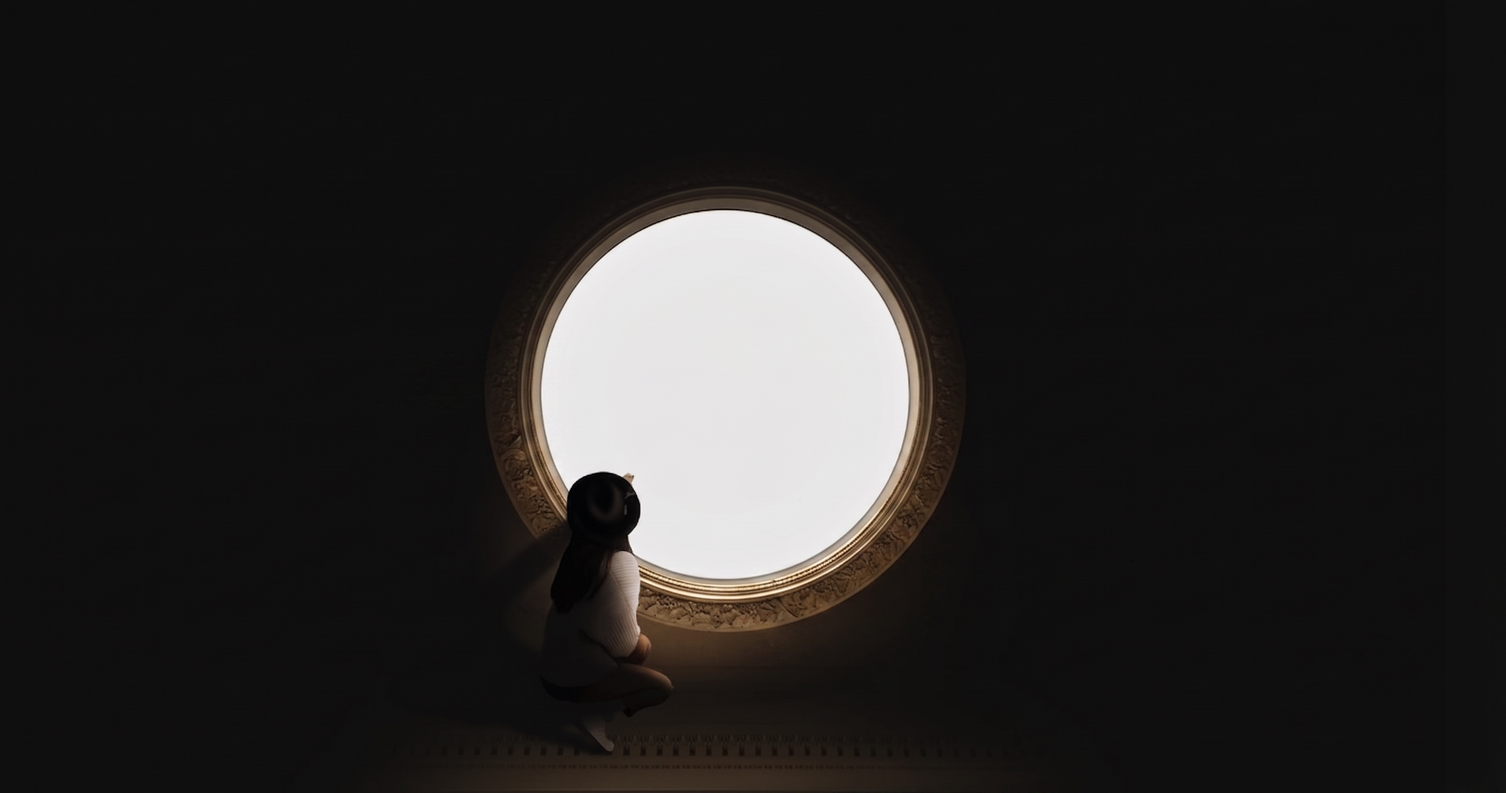
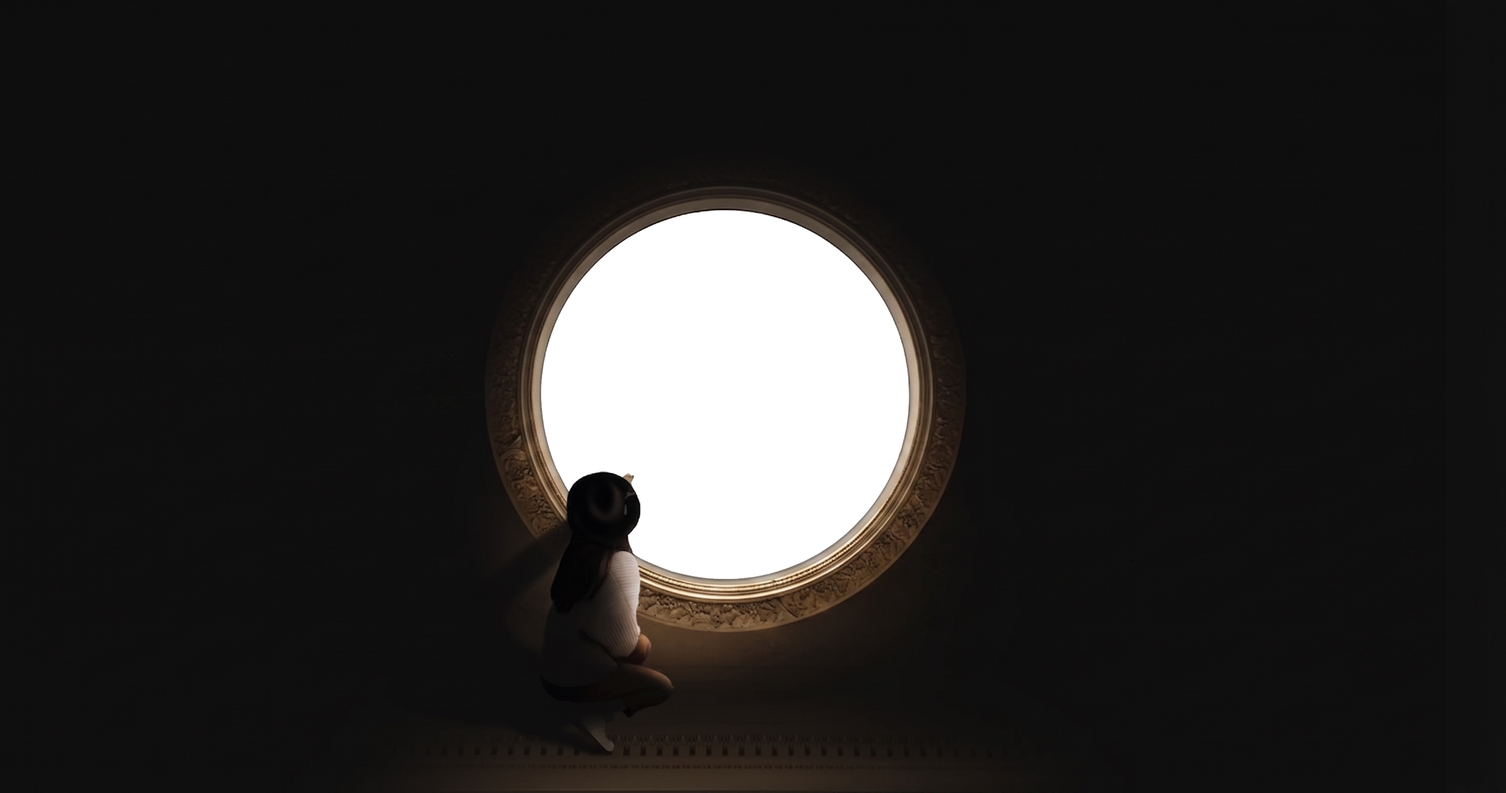
Update HeroSection with improved video playback handling and enhance zoom image transparency. Replace resumeBgVideo function with keepPlaying for better video control. Modify comments for clarity on asset roles and interactions.

Changed region(s): [[0.3438, 0.3067, 0.5938, 0.736]]

diff --git a/src/components/HeroSection.vue b/src/components/HeroSection.vue
@@ -15,9 +15,14 @@ useInteractiveLineField(lineCanvasRef, sectionRef)
 
 // Same two elements/two tweens as codepen.io/GreenSock/pen/YzbPYMx: the
 // `.image-container img` role (scale 2 + z 350, the dramatic zoom) is
-// `zoomImage` (public/images/BGHTML.png, the same asset type as the
-// reference's photo), and the `.section.hero` background role (scale 1.1)
-// is `bgVideo` (the veltechlogo animation) — see useScrollZoom.js.
+// `zoomImage` (BGHTML.png — its window is now cut out transparent in the
+// source file), and the `.section.hero` background role (scale 1.1) is
+// `bgVideo`, sitting behind it at the same position/size so the animation
+// shows straight through the window. The two roles scale at different
+// rates/timing on purpose — that mismatch is what reads as perspective:
+// the foreground frame zooms in hard while the video behind it drifts at
+// its own slower pace, the same depth cue the reference gets from photo
+// vs. mountain background. See useScrollZoom.js.
 useScrollZoom(zoomImageRef, bgVideoRef, sectionRef)
 
 // Rotating headline word, swapped on a timer with a glitch transition (see
@@ -27,6 +32,7 @@ useScrollZoom(zoomImageRef, bgVideoRef, sectionRef)
 const words = ['purpose', 'depth', 'something', 'impact', 'intention']
 const wordIndex = ref(0)
 let wordInterval = null
+let stopBgVideo = null
 
 // Chrome pauses silent, video-only background media as a power-saving
 // measure ("video-only background media was paused to save power") — it
@@ -34,10 +40,15 @@ let wordInterval = null
 // is genuinely in view. Resuming on 'pause' (only while the page is
 // actually visible, so it doesn't fight a deliberate background-tab pause)
 // makes the loop self-heal instead of freezing on one frame.
-function resumeBgVideo() {
-  if (document.visibilityState === 'visible') {
-    bgVideoRef.value?.play().catch(() => {})
+function keepPlaying(videoRef) {
+  const video = videoRef.value
+  if (!video) return
+  const resume = () => {
+    if (document.visibilityState === 'visible') video.play().catch(() => {})
   }
+  resume()
+  video.addEventListener('pause', resume)
+  return () => video.removeEventListener('pause', resume)
 }
 
 // The hero is always visible on load, so its entrance plays as a plain
@@ -63,13 +74,12 @@ onMounted(() => {
   // play() call, leaving it stuck paused at frame 0 indefinitely. Calling
   // it directly is the robust way to kick off autoplay; `muted` is what
   // makes browsers allow it without a user gesture.
-  bgVideoRef.value?.play().catch(() => {})
-  bgVideoRef.value?.addEventListener('pause', resumeBgVideo)
+  stopBgVideo = keepPlaying(bgVideoRef)
 })
 
 onBeforeUnmount(() => {
   clearInterval(wordInterval)
-  bgVideoRef.value?.removeEventListener('pause', resumeBgVideo)
+  stopBgVideo?.()
 })
 </script>
 
@@ -80,13 +90,12 @@ onBeforeUnmount(() => {
     class="relative flex min-h-screen items-start overflow-hidden bg-brand-950 pt-36 sm:pt-40"
   >
     <!-- `.content .section.hero` from the reference — background layer,
-         normal flow, gets the timeline's scale:1.1 tween. `mix-blend-mode:
-         screen` drops the video's black background out entirely so only
-         the bright mark shows against the section's own bg-brand-950. -->
+         normal flow, gets the timeline's scale:1.1 tween. Same box/sizing as
+         the photo layer below so it lines up behind the window. -->
     <div class="absolute inset-0 z-[1] overflow-hidden">
       <video
         ref="bgVideo"
-        class="pointer-events-none h-full w-full object-cover object-center mix-blend-screen"
+        class="pointer-events-none h-full w-full object-cover object-center"
         :src="'/videos/veltechlogo.mp4'"
         autoplay
         muted
@@ -97,7 +106,8 @@ onBeforeUnmount(() => {
 
     <!-- `.image-container > img` from the reference — its own absolute box
          with `perspective: 500px`, gets the timeline's scale:2 + z:350
-         tween (the dramatic zoom). -->
+         tween (the dramatic zoom). BGHTML.png's window is cut out
+         transparent, so bgVideo shows straight through it. -->
     <div class="absolute inset-x-0 top-0 z-[2] h-full overflow-hidden [perspective:500px]">
       <img
         ref="zoomImage"
